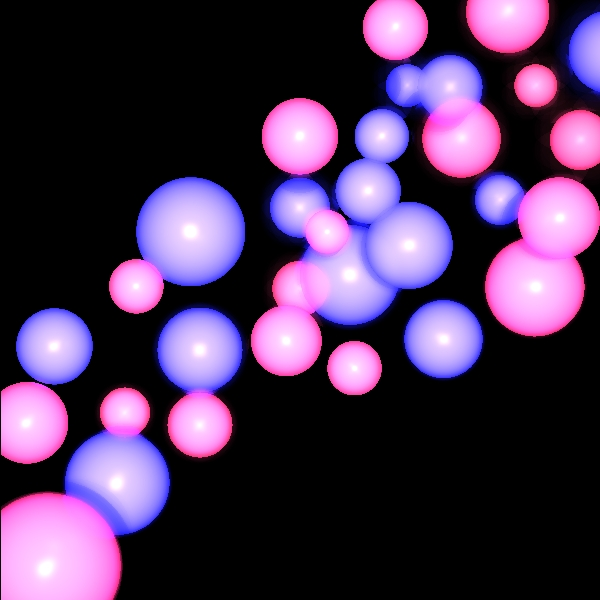
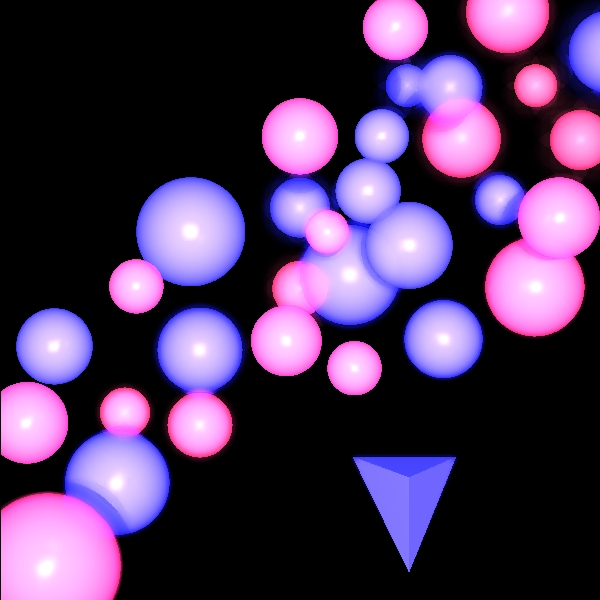
29/06/2020 20:44 project_part2

diff --git a/src/unittests/unittests/project1.java b/src/unittests/unittests/project1.java
@@ -20,88 +20,62 @@ public class project1 {
     public void picture() {
         Scene scene = new Scene("Test scene");
         scene.setBackground(Color.BLACK);
-        scene.setAmbientLight(
-                new AmbientLight(
-                        new Color(java.awt.Color.WHITE), 0.15));
-        scene.setCamera(
-                new Camera(
-                        new Point3D(0, 0, -1000),
-                        new Vector(0, 0, 1),
-                        new Vector(0, -1, 0))
-                        .setDOF(1).setAperture(5d)
-                        .setNumOfRays(300)
-                        .setFocalDistance(100));
+        scene.setAmbientLight(new AmbientLight(new Color(java.awt.Color.WHITE), 0.15));
+        scene.setCamera(new Camera(new Point3D(0, 0, -1000), new Vector(0, 0, 1), new Vector(0, -1, 0))
+                        .setDOF(1).setAperture(5d).setNumOfRays(300).setFocalDistance(100));
         scene.setDistance(1000);
-        
-        Material sphereMaterial =  new Material(0.5, 0.5, 60, 0.6, 0); 
-        Color colorPink =  new Color(102, 0, 51);
-        Color colorBlue =new Color(java.awt.Color.blue);
-        
+
+        Material sphereMaterial = new Material(0.5, 0.5, 60, 0.6, 0);
+        Color colorPink = new Color(102, 0, 51);
+        Color colorBlue = new Color(java.awt.Color.blue);
+
         scene.addGeometries(
-                new Sphere(
-                        colorPink,
-                        sphereMaterial,
-                        15,
-                        new Point3D(140, -80, 500)),
-                new Sphere(colorBlue,sphereMaterial, 20, new Point3D(150, -120, 450)),
-                new Sphere(colorPink,sphereMaterial, 10, new Point3D(110, -100, 400)),
-                new Sphere(colorPink,sphereMaterial, 18, new Point3D(90, -125, 300)),
-                new Sphere(colorBlue,sphereMaterial, 13, new Point3D(60, -85, 200)),
-                new Sphere(colorPink,sphereMaterial, 15, new Point3D(95, -30, 100)),
-                new Sphere(colorPink,sphereMaterial, 12, new Point3D(35, -100, 100)),
-                new Sphere(colorBlue,sphereMaterial, 10, new Point3D(50, -100, 400)),
-                new Sphere(colorBlue,sphereMaterial, 10, new Point3D(30, -60, 100)),
-                new Sphere(colorPink,sphereMaterial, 17, new Point3D(70, -70, 300)),
-                new Sphere(colorBlue,sphereMaterial, 10, new Point3D(80, -40, 200)),
-                new Sphere(colorPink,sphereMaterial, 19, new Point3D(90, -5, 150)),
-                new Sphere(colorPink,sphereMaterial, 14, new Point3D(0, -60, 100)),
-                new Sphere(colorBlue,sphereMaterial, 16, new Point3D(40, -20, 100)),
-                new Sphere(colorPink,sphereMaterial, 8, new Point3D(10, -25, 100)),
-                new Sphere(colorPink,sphereMaterial, 10, new Point3D(-60, -5, 100)),
-                new Sphere(colorBlue,sphereMaterial, 20, new Point3D(20, -10, 200)),
-                new Sphere(colorBlue,sphereMaterial, 12, new Point3D(25, -40, 100)),
-                new Sphere(colorBlue,sphereMaterial, 15, new Point3D(55, 15, 150)),
-                new Sphere(colorPink,sphereMaterial, 10, new Point3D(20, 25, 100)),
-                new Sphere(colorPink,sphereMaterial, 12, new Point3D(0, -5, 300)),
-                new Sphere(colorBlue,sphereMaterial, 17, new Point3D(-40, 20, 200)),
-                new Sphere(colorBlue,sphereMaterial, 14, new Point3D(-90, 17, 100)),
-                new Sphere(colorPink,sphereMaterial, 13, new Point3D(-5, 15, 100)),
-                new Sphere(colorBlue,sphereMaterial, 13, new Point3D(0, -40, 300)),
-                new Sphere(colorBlue,sphereMaterial, 20, new Point3D(-40, -25, 100)),
-                new Sphere(colorPink,sphereMaterial, 15, new Point3D(-100, 45, 100)),
-                new Sphere(colorPink,sphereMaterial, 10, new Point3D(-70, 45, 200)),
-                new Sphere(colorBlue,sphereMaterial, 20, new Point3D(-70, 70, 150)),
-                new Sphere(colorPink,sphereMaterial, 13, new Point3D(-40, 50, 200)),
-                new Sphere(colorPink,sphereMaterial, 26, new Point3D(-90, 95, 70))
-//                new Sphere(colorPink,sphereMaterial, 10, new Point3D(-80, -35, 70)),
-//                new Triangle(
-//                        colorBlue,
-//                        new Material(0.8, 0.2, 300),
-//                        new Point3D(-110, -25, 100),
-//                        new Point3D(-60, -25, 100),
-//                        new Point3D(-80, -100, 100))
-        );
+                new Sphere(colorPink, sphereMaterial, 15, new Point3D(140, -80, 500)),
+                new Sphere(colorBlue, sphereMaterial, 20, new Point3D(150, -120, 450)),
+                new Sphere(colorPink, sphereMaterial, 10, new Point3D(110, -100, 400)),
+                new Sphere(colorPink, sphereMaterial, 18, new Point3D(90, -125, 300)),
+                new Sphere(colorBlue, sphereMaterial, 13, new Point3D(60, -85, 200)),
+                new Sphere(colorPink, sphereMaterial, 15, new Point3D(95, -30, 100)),
+                new Sphere(colorPink, sphereMaterial, 12, new Point3D(35, -100, 100)),
+                new Sphere(colorBlue, sphereMaterial, 10, new Point3D(50, -100, 400)),
+                new Sphere(colorBlue, sphereMaterial, 10, new Point3D(30, -60, 100)),
+                new Sphere(colorPink, sphereMaterial, 17, new Point3D(70, -70, 300)),
+                new Sphere(colorBlue, sphereMaterial, 10, new Point3D(80, -40, 200)),
+                new Sphere(colorPink, sphereMaterial, 19, new Point3D(90, -5, 150)),
+                new Sphere(colorPink, sphereMaterial, 14, new Point3D(0, -60, 100)),
+                new Sphere(colorBlue, sphereMaterial, 16, new Point3D(40, -20, 100)),
+                new Sphere(colorPink, sphereMaterial, 8, new Point3D(10, -25, 100)),
+                new Sphere(colorPink, sphereMaterial, 10, new Point3D(-60, -5, 100)),
+                new Sphere(colorBlue, sphereMaterial, 20, new Point3D(20, -10, 200)),
+                new Sphere(colorBlue, sphereMaterial, 12, new Point3D(25, -40, 100)),
+                new Sphere(colorBlue, sphereMaterial, 15, new Point3D(55, 15, 150)),
+                new Sphere(colorPink, sphereMaterial, 10, new Point3D(20, 25, 100)),
+                new Sphere(colorPink, sphereMaterial, 12, new Point3D(0, -5, 300)),
+                new Sphere(colorBlue, sphereMaterial, 17, new Point3D(-40, 20, 200)),
+                new Sphere(colorBlue, sphereMaterial, 14, new Point3D(-90, 17, 100)),
+                new Sphere(colorPink, sphereMaterial, 13, new Point3D(-5, 15, 100)),
+                new Sphere(colorBlue, sphereMaterial, 13, new Point3D(0, -40, 300)),
+                new Sphere(colorBlue, sphereMaterial, 20, new Point3D(-40, -25, 100)),
+                new Sphere(colorPink, sphereMaterial, 15, new Point3D(-100, 45, 100)),
+                new Sphere(colorPink, sphereMaterial, 10, new Point3D(-70, 45, 200)),
+                new Sphere(colorBlue, sphereMaterial, 20, new Point3D(-70, 70, 150)),
+                new Sphere(colorPink, sphereMaterial, 13, new Point3D(-40, 50, 200)),
+                new Sphere(colorPink, sphereMaterial, 26, new Point3D(-90, 95, 70)));
 
-        scene.addLights(new DirectionalLight(new Color(252,212,64),new Vector(0,0,1)),
-                new PointLight(new Color(30,30,30),new Point3D(-40,-25,-100),1, 0.00001, 0.00000001),
-                new PointLight(new Color(30,30,30),new Point3D(0,0,0),1, 0.001, 0.0001));
+        scene.addGeometries(new Triangle(new Color(java.awt.Color.blue), new Material(0.8, 0.2, 300),
+                        new Point3D(20, 60, 150), new Point3D(60, 60, 150), new Point3D(40, 65, 100)),
+                new Triangle(new Color(java.awt.Color.blue), new Material(0.8, 0.2, 300),
+                        new Point3D(60, 60, 150), new Point3D(40, 65, 100), new Point3D(40, 100, 100)),
+                new Triangle(new Color(java.awt.Color.blue), new Material(0.8, 0.2, 300),
+                        new Point3D(20, 60, 150), new Point3D(40, 65, 100), new Point3D(40, 100, 100)),
+                new Triangle(new Color(java.awt.Color.blue), new Material(0.8, 0.2, 300),
+                        new Point3D(20, 60, 150), new Point3D(60, 60, 150), new Point3D(40, 100, 100)));
 
 
-//        scene.addLights(
-//                new PointLight(
-//                        new Color(252, 212, 64),
-//                        new Point3D(0, 0, -100),
-//                        1, 0.00001, 0.00000001),
-//                new PointLight(
-//                        new Color(180, 50, 25),
-//                        new Point3D(70, -100, 0),
-//                        1, 0.00001, 0.00000001),
-//                new SpotLight(
-//                        new Color(180, 130, 30),
-//                        new Point3D(100, -80, 0),
-//                        new Vector(1, -1, 1),
-//                        1, 0.00001, 0.00000001)
-//        );
+        scene.addLights(new DirectionalLight(new Color(252, 212, 64), new Vector(0, 0, 1)),
+                new PointLight(new Color(30, 30, 30), new Point3D(-40, -25, -100), 1, 0.00001, 0.00000001),
+                new PointLight(new Color(30, 30, 30), new Point3D(0, 0, 0), 1, 0.001, 0.0001));
+
 
         ImageWriter imageWriter = new ImageWriter("project1", 200, 200, 600, 600);
         Render render = new Render(imageWriter, scene).setMultithreading(4).setDebugPrint();

diff --git a/src/renderer/Render.java b/src/renderer/Render.java
@@ -37,7 +37,6 @@ public class Render {
 
     /**
      * constructor
-     *
      * @param imageWriter ImageWriter
      * @param scene       Scene
      */
@@ -49,7 +48,6 @@ public class Render {
 
     /**
      * setter of _depthOfField
-     *
      * @param _depthOfField int
      */
     public void setDepthOfField(int _depthOfField) {
@@ -199,7 +197,7 @@ public class Render {
                             if(_adaptiveSampling == 0)
                                 resultingColor = getPixelRaysBeamColor(camera, distance, Nx, Ny, width, height, pixel);
                             else
-                                resultingColor = adaptiveSamplingRecursion(Nx, Ny, distance,  width, height, pixel,4,2,Point3D.ZERO);
+                                resultingColor = adaptiveSamplingRecursion(Nx, Ny, distance,  width, height, pixel,3,2,Point3D.ZERO);
                         }
                         _imageWriter.writePixel(pixel.col, pixel.row, resultingColor.getColor());
                     }
@@ -265,14 +263,13 @@ public class Render {
     }
 
 
-        /**
-         * help function: calculates the average color of the intersection points from all rays in a list
-         *
-         * @param background Color
-         * @param ray        Ray
-         * @param rayBeam    List of Ray
-         * @return Color
-         */
+    /**
+     * help function: calculates the average color of the intersection points from all rays in a list
+     * @param background Color
+     * @param ray        Ray
+     * @param rayBeam    List of Ray
+     * @return Color
+     */
     private primitives.Color calcolor(primitives.Color background, Ray ray, List<Ray> rayBeam) {
         GeoPoint closestPoint;
         primitives.Color averageColor = primitives.Color.BLACK;
@@ -291,7 +288,6 @@ public class Render {
 
     /**
      * checks a sign of a value
-     *
      * @param val double
      * @return boolean
      */
@@ -301,7 +297,6 @@ public class Render {
 
     /**
      * Calculate Specular component of light reflection.
-     *
      * @param ks         specular component coef
      * @param l          direction from light to point
      * @param n          normal to surface at the point
@@ -409,9 +404,9 @@ public class Render {
      */
     public void printGrid(int interval, Color colorsep) {
         double rows = this._imageWriter.getNx();
-        double collumns = _imageWriter.getNy();
+        double columns = _imageWriter.getNy();
         //Writing the lines.
-        for (int col = 0; col < collumns; col++) {
+        for (int col = 0; col < columns; col++) {
             for (int row = 0; row < rows; row++) {
                 if (col % interval == 0 || row % interval == 0) {
                     _imageWriter.writePixel(row, col, colorsep);

diff --git a/src/primitives/Point3D.java b/src/primitives/Point3D.java
@@ -117,7 +117,7 @@ public class Point3D {
      * @return a vector
      */
     public Vector subtract(Point3D _p) {
-        return new Vector(this._x._coord - _p.getX()._coord, this.getY()._coord - _p.getY()._coord, this.getZ()._coord - _p.getZ()._coord);
+        return new Vector(this._x._coord - _p._x._coord, this._y._coord - _p._y._coord, this._z._coord - _p._z._coord);
     }
 
     /**
@@ -127,7 +127,7 @@ public class Point3D {
      * @return a 3D point
      */
     public Point3D add(Vector _v) {
-        return new Point3D(this.getX()._coord + _v.getHead().getX()._coord, this.getY()._coord + _v.getHead().getY()._coord, this.getZ()._coord + _v.getHead().getZ()._coord);
+        return new Point3D(this._x._coord + _v._head._x._coord, this._y._coord + _v._head._y._coord, this._z._coord + _v._head._z._coord);
     }
 
     /**
@@ -137,7 +137,7 @@ public class Point3D {
      * @return the squared distance
      */
     public double distanceSquared(Point3D _p) {
-        return ((_p.getX()._coord - this.getX()._coord) * (_p.getX()._coord - this.getX()._coord) + (_p.getY()._coord - this.getY()._coord) * (_p.getY()._coord - this.getY()._coord) + (_p.getZ()._coord - this.getZ()._coord) * (_p.getZ()._coord - this.getZ()._coord));
+        return ((_p._x._coord - this._x._coord) * (_p._x._coord - this._x._coord) + (_p._y._coord - this._y._coord) * (_p._y._coord - this._y._coord) + (_p._z._coord - this._z._coord) * (_p._z._coord - this._z._coord));
     }
 
     /**

diff --git a/src/primitives/Color.java b/src/primitives/Color.java
@@ -172,23 +172,17 @@ public class Color {
         return new Color(r, g, b);
     }
 
-//    /**
-//     * checks if 2 colors are similar
-//     * @param color Color
-//     * @return boolean
-//     */
-//    public boolean equals(Color color){
-//        if(this.equals(Color.BLACK) && color.equals(Color.BLACK))
-//            return true;
-//        if(this.equals(Color.BLACK))
-//            _r = _r + 0.1;
-//        if (color.equals(Color.BLACK))
-//            color._r = color._r + 0.1;
-//        Point3D p1 = new Point3D(_r,_g,_b);
-//        Point3D p2 = new Point3D(color._r, color._g, color._b);
-//        double distance = p1.distance(p2);
-//        if(distance < 10)
-//            return true;
-//        return false;
-//    }
+    /**
+     * checks if 2 colors are similar
+     * @param color Color
+     * @return boolean
+     */
+    public boolean equals(Color color){
+        Point3D p1 = new Point3D(_r,_g,_b);
+        Point3D p2 = new Point3D(color._r, color._g, color._b);
+        double distance = p1.distance(p2);
+        if(distance < 5)
+            return true;
+        return false;
+    }
 }

diff --git a/src/elements/Camera.java b/src/elements/Camera.java
@@ -231,8 +231,11 @@ public class Camera {
 
         Ray centerRay = new Ray(pij, vToToFocal);
         result.add(centerRay);
+
+        //calculates the focal point
         Point3D focalPoint = pij.add(vToToFocal.scale(focalDistance / _vTo.dotProduct(vToToFocal)));
 
+        //calculates random rays in aperture
         for (int k = 1; k < numOfRays; k++) {
             Point3D randPoint = new Point3D(pij);
             double x = rand.nextDouble() * 2 - 1;
